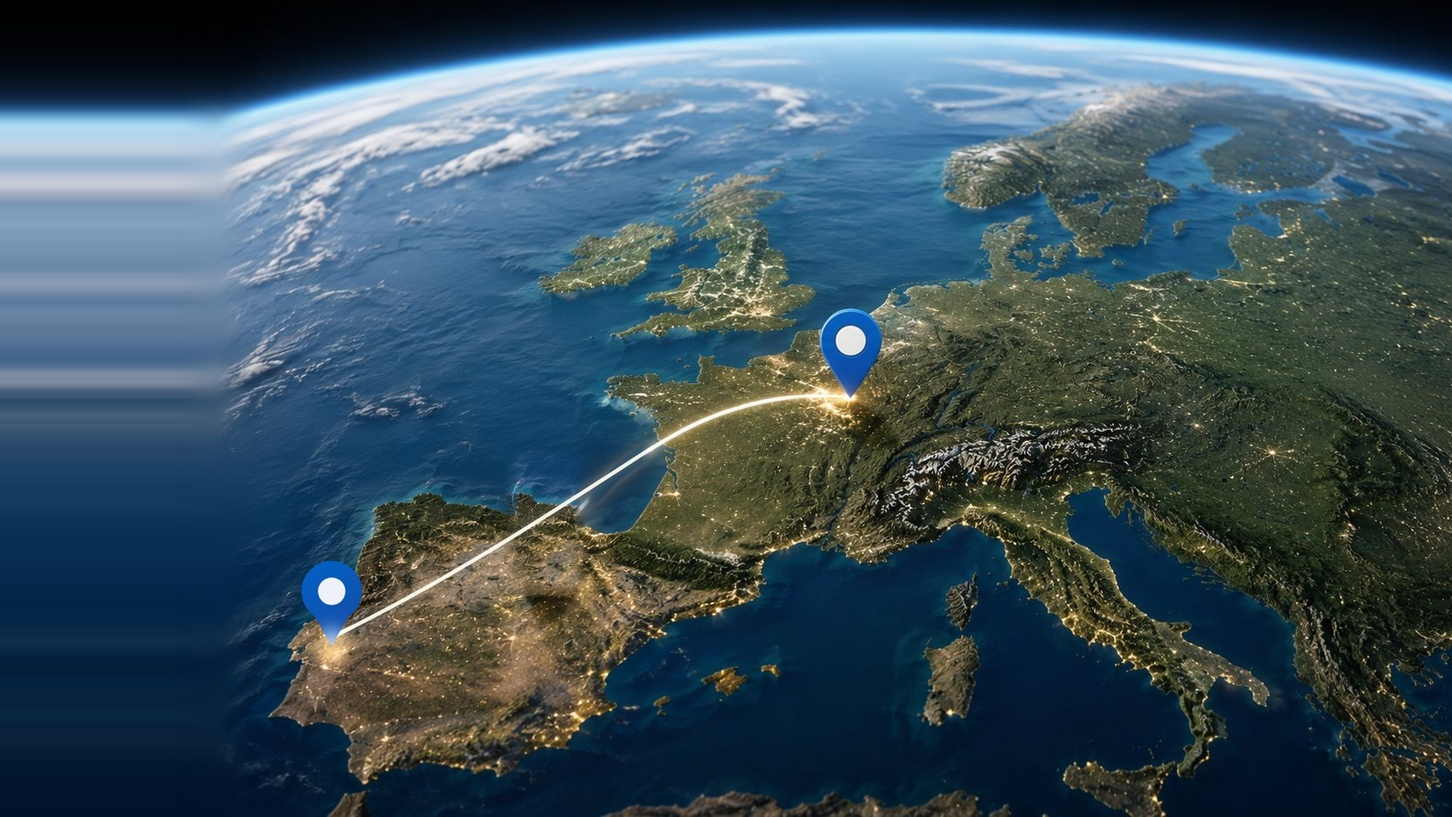
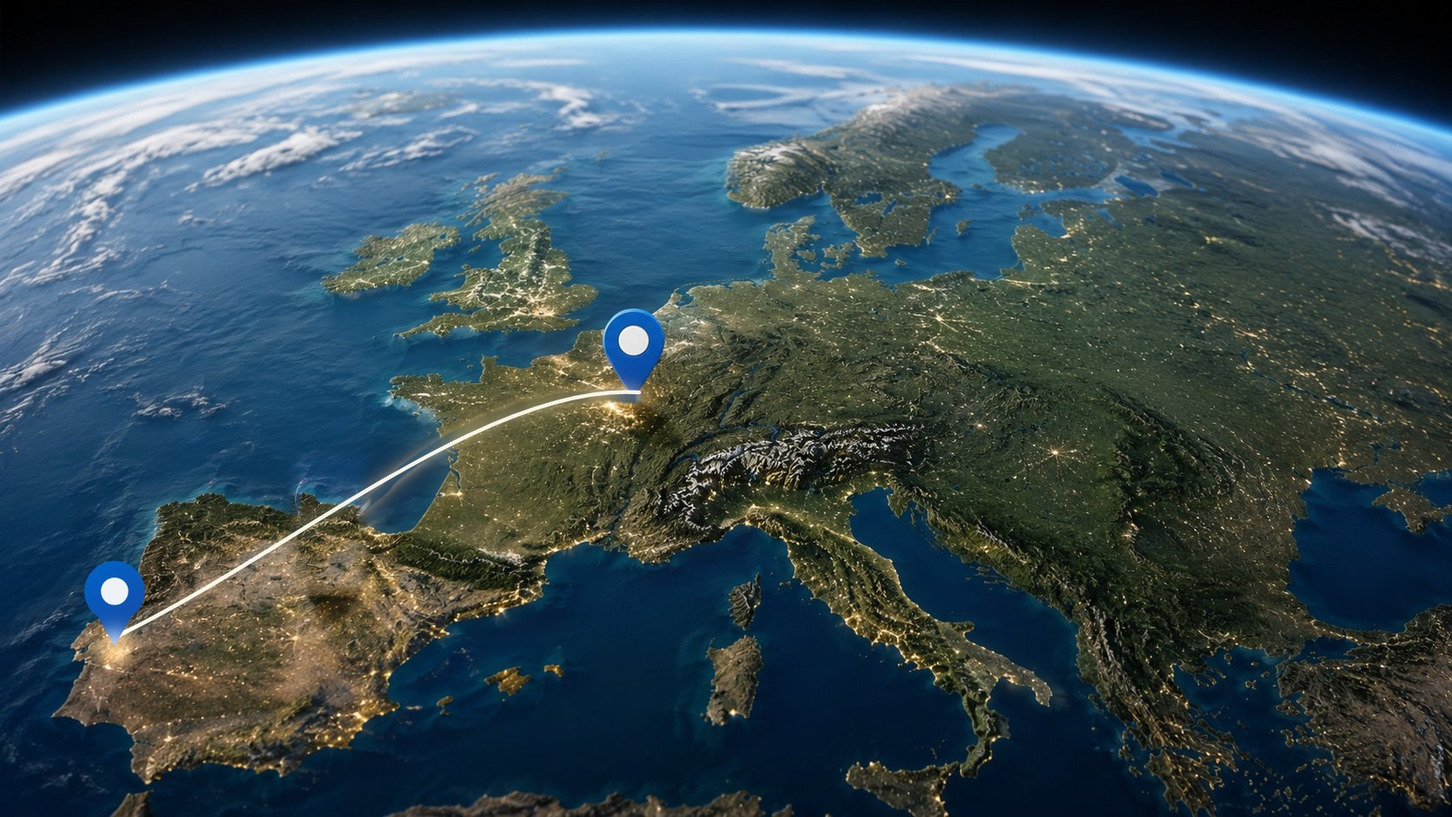
Áreas: arco redesenhado como curva única e elegante; remover preenchimento à esquerda
- O arco antigo foi apagado e substituído por uma curva única que sobe de
  Portugal e achata progressivamente até à Bélgica (a tentativa anterior
  colava-se ao traçado antigo, o que obrigava a uma curva em S)
- Removido o deslocamento do mapa com preenchimento à esquerda: dava um
  aspeto borrado no bordo. O mapa volta a ser a imagem natural
- Enquadramento vertical afinado; versão dos assets atualizada (cache)

Claude-Session: https://claude.ai/code/session_01KmCGpcUCuut8EtqZ6Sw2tr

diff --git a/en/servicos.html b/en/servicos.html
@@ -57,7 +57,7 @@
     </div>
   </header>
   <main id="conteudo">
-    <section class="hero hero--photo" style="background-image:url('../assets/img/servicos-bg.jpg?v=20260818')">
+    <section class="hero hero--photo" style="background-image:url('../assets/img/servicos-bg.jpg?v=20260818b')">
       <div class="container hero__inner">
         <span class="eyebrow">What we offer</span>
         <h1>Services</h1>
@@ -67,7 +67,7 @@
     <section class="section">
       <div class="container svc-rows">
         <article class="svc-row rv">
-          <div class="svc-row__media svc-row__media--photo" style="background-image:url('../assets/img/servicos/survey-e-projeto.jpg?v=20260818')">
+          <div class="svc-row__media svc-row__media--photo" style="background-image:url('../assets/img/servicos/survey-e-projeto.jpg?v=20260818b')">
             <span class="svc-row__num" aria-hidden="true">01</span>
             <span class="svc-row__icon" aria-hidden="true"><svg viewBox="0 0 48 48" fill="none" stroke="currentColor" stroke-width="2" stroke-linecap="round" stroke-linejoin="round"><rect x="12" y="7" width="24" height="34" rx="2"/><path d="M19 7v-1h10v1"/><path d="M18 19h12M18 26h12M18 33h8"/></svg></span>
           </div>
@@ -77,7 +77,7 @@
           </div>
         </article>
         <article class="svc-row svc-row--rev rv">
-          <div class="svc-row__media svc-row__media--photo" style="background-image:url('../assets/img/servicos/construcao-de-redes.jpg?v=20260818')">
+          <div class="svc-row__media svc-row__media--photo" style="background-image:url('../assets/img/servicos/construcao-de-redes.jpg?v=20260818b')">
             <span class="svc-row__num" aria-hidden="true">02</span>
             <span class="svc-row__icon" aria-hidden="true"><svg viewBox="0 0 48 48" fill="none" stroke="currentColor" stroke-width="2" stroke-linecap="round" stroke-linejoin="round"><circle cx="24" cy="10" r="4"/><circle cx="10" cy="38" r="4"/><circle cx="38" cy="38" r="4"/><path d="M24 14v10m0 0-11 11m11-11 11 11"/></svg></span>
           </div>
@@ -87,7 +87,7 @@
           </div>
         </article>
         <article class="svc-row rv">
-          <div class="svc-row__media svc-row__media--photo" style="background-image:url('../assets/img/servicos/fibra-otica-e-cobre.jpg?v=20260818')">
+          <div class="svc-row__media svc-row__media--photo" style="background-image:url('../assets/img/servicos/fibra-otica-e-cobre.jpg?v=20260818b')">
             <span class="svc-row__num" aria-hidden="true">03</span>
             <span class="svc-row__icon" aria-hidden="true"><svg viewBox="0 0 48 48" fill="none" stroke="currentColor" stroke-width="2" stroke-linecap="round" stroke-linejoin="round"><path d="M8 40c0-12 8-20 20-20"/><path d="M40 8c0 12-8 20-20 20"/><circle cx="8" cy="40" r="2.5"/><circle cx="40" cy="8" r="2.5"/><circle cx="24" cy="24" r="2.5"/></svg></span>
           </div>
@@ -97,7 +97,7 @@
           </div>
         </article>
         <article class="svc-row svc-row--rev rv">
-          <div class="svc-row__media svc-row__media--photo svc-row__media--contain" style="background-image:url('../assets/img/servicos/instalacao-e-ativacao.jpg?v=20260818')">
+          <div class="svc-row__media svc-row__media--photo svc-row__media--contain" style="background-image:url('../assets/img/servicos/instalacao-e-ativacao.jpg?v=20260818b')">
             <span class="svc-row__num" aria-hidden="true">04</span>
             <span class="svc-row__icon" aria-hidden="true"><svg viewBox="0 0 48 48" fill="none" stroke="currentColor" stroke-width="2" stroke-linecap="round" stroke-linejoin="round"><path d="M24 6v15"/><path d="M15 15a13 13 0 1 0 18 0"/></svg></span>
           </div>
@@ -107,7 +107,7 @@
           </div>
         </article>
         <article class="svc-row rv">
-          <div class="svc-row__media svc-row__media--photo" style="background-image:url('../assets/img/servicos/supervisao-e-monitorizacao.jpg?v=20260818')">
+          <div class="svc-row__media svc-row__media--photo" style="background-image:url('../assets/img/servicos/supervisao-e-monitorizacao.jpg?v=20260818b')">
             <span class="svc-row__num" aria-hidden="true">05</span>
             <span class="svc-row__icon" aria-hidden="true"><svg viewBox="0 0 48 48" fill="none" stroke="currentColor" stroke-width="2" stroke-linecap="round" stroke-linejoin="round"><rect x="6" y="9" width="36" height="25" rx="2"/><path d="M12 24l6-6 5 7 5-8 4 5"/><path d="M18 41h12M24 34v7"/></svg></span>
           </div>
@@ -117,7 +117,7 @@
           </div>
         </article>
         <article class="svc-row svc-row--rev rv">
-          <div class="svc-row__media svc-row__media--photo" style="background-image:url('../assets/img/servicos/manutencao-e-reparacao.jpg?v=20260818')">
+          <div class="svc-row__media svc-row__media--photo" style="background-image:url('../assets/img/servicos/manutencao-e-reparacao.jpg?v=20260818b')">
             <span class="svc-row__num" aria-hidden="true">06</span>
             <span class="svc-row__icon" aria-hidden="true"><svg viewBox="0 0 48 48" fill="none" stroke="currentColor" stroke-width="2" stroke-linecap="round" stroke-linejoin="round"><path d="M31 9a8 8 0 0 0-10 10L9 31a3 3 0 0 0 0 4l4 4a3 3 0 0 0 4 0l12-12a8 8 0 0 0 10-10l-6 6-4-4 6-6z"/></svg></span>
           </div>
@@ -127,7 +127,7 @@
           </div>
         </article>
         <article class="svc-row rv">
-          <div class="svc-row__media svc-row__media--photo" style="background-image:url('../assets/img/servicos/qualidade-e-auditoria.jpg?v=20260818')">
+          <div class="svc-row__media svc-row__media--photo" style="background-image:url('../assets/img/servicos/qualidade-e-auditoria.jpg?v=20260818b')">
             <span class="svc-row__num" aria-hidden="true">07</span>
             <span class="svc-row__icon" aria-hidden="true"><svg viewBox="0 0 48 48" fill="none" stroke="currentColor" stroke-width="2" stroke-linecap="round" stroke-linejoin="round"><path d="M24 5l16 6v10c0 10-7 17-16 21-9-4-16-11-16-21V11z"/><path d="M17 24l5 5 9-11"/></svg></span>
           </div>
@@ -137,7 +137,7 @@
           </div>
         </article>
         <article class="svc-row svc-row--rev rv">
-          <div class="svc-row__media svc-row__media--photo" style="background-image:url('../assets/img/servicos/armazem-e-logistica.jpg?v=20260818')">
+          <div class="svc-row__media svc-row__media--photo" style="background-image:url('../assets/img/servicos/armazem-e-logistica.jpg?v=20260818b')">
             <span class="svc-row__num" aria-hidden="true">08</span>
             <span class="svc-row__icon" aria-hidden="true"><svg viewBox="0 0 48 48" fill="none" stroke="currentColor" stroke-width="2" stroke-linecap="round" stroke-linejoin="round"><path d="M6 21 24 9l18 12"/><path d="M9 21v19h30V21"/><rect x="18" y="28" width="12" height="12"/></svg></span>
           </div>

diff --git a/fr/servicos.html b/fr/servicos.html
@@ -57,7 +57,7 @@
     </div>
   </header>
   <main id="conteudo">
-    <section class="hero hero--photo" style="background-image:url('../assets/img/servicos-bg.jpg?v=20260818')">
+    <section class="hero hero--photo" style="background-image:url('../assets/img/servicos-bg.jpg?v=20260818b')">
       <div class="container hero__inner">
         <span class="eyebrow">Notre offre</span>
         <h1>Services</h1>
@@ -67,7 +67,7 @@
     <section class="section">
       <div class="container svc-rows">
         <article class="svc-row rv">
-          <div class="svc-row__media svc-row__media--photo" style="background-image:url('../assets/img/servicos/survey-e-projeto.jpg?v=20260818')">
+          <div class="svc-row__media svc-row__media--photo" style="background-image:url('../assets/img/servicos/survey-e-projeto.jpg?v=20260818b')">
             <span class="svc-row__num" aria-hidden="true">01</span>
             <span class="svc-row__icon" aria-hidden="true"><svg viewBox="0 0 48 48" fill="none" stroke="currentColor" stroke-width="2" stroke-linecap="round" stroke-linejoin="round"><rect x="12" y="7" width="24" height="34" rx="2"/><path d="M19 7v-1h10v1"/><path d="M18 19h12M18 26h12M18 33h8"/></svg></span>
           </div>
@@ -77,7 +77,7 @@
           </div>
         </article>
         <article class="svc-row svc-row--rev rv">
-          <div class="svc-row__media svc-row__media--photo" style="background-image:url('../assets/img/servicos/construcao-de-redes.jpg?v=20260818')">
+          <div class="svc-row__media svc-row__media--photo" style="background-image:url('../assets/img/servicos/construcao-de-redes.jpg?v=20260818b')">
             <span class="svc-row__num" aria-hidden="true">02</span>
             <span class="svc-row__icon" aria-hidden="true"><svg viewBox="0 0 48 48" fill="none" stroke="currentColor" stroke-width="2" stroke-linecap="round" stroke-linejoin="round"><circle cx="24" cy="10" r="4"/><circle cx="10" cy="38" r="4"/><circle cx="38" cy="38" r="4"/><path d="M24 14v10m0 0-11 11m11-11 11 11"/></svg></span>
           </div>
@@ -87,7 +87,7 @@
           </div>
         </article>
         <article class="svc-row rv">
-          <div class="svc-row__media svc-row__media--photo" style="background-image:url('../assets/img/servicos/fibra-otica-e-cobre.jpg?v=20260818')">
+          <div class="svc-row__media svc-row__media--photo" style="background-image:url('../assets/img/servicos/fibra-otica-e-cobre.jpg?v=20260818b')">
             <span class="svc-row__num" aria-hidden="true">03</span>
             <span class="svc-row__icon" aria-hidden="true"><svg viewBox="0 0 48 48" fill="none" stroke="currentColor" stroke-width="2" stroke-linecap="round" stroke-linejoin="round"><path d="M8 40c0-12 8-20 20-20"/><path d="M40 8c0 12-8 20-20 20"/><circle cx="8" cy="40" r="2.5"/><circle cx="40" cy="8" r="2.5"/><circle cx="24" cy="24" r="2.5"/></svg></span>
           </div>
@@ -97,7 +97,7 @@
           </div>
         </article>
         <article class="svc-row svc-row--rev rv">
-          <div class="svc-row__media svc-row__media--photo svc-row__media--contain" style="background-image:url('../assets/img/servicos/instalacao-e-ativacao.jpg?v=20260818')">
+          <div class="svc-row__media svc-row__media--photo svc-row__media--contain" style="background-image:url('../assets/img/servicos/instalacao-e-ativacao.jpg?v=20260818b')">
             <span class="svc-row__num" aria-hidden="true">04</span>
             <span class="svc-row__icon" aria-hidden="true"><svg viewBox="0 0 48 48" fill="none" stroke="currentColor" stroke-width="2" stroke-linecap="round" stroke-linejoin="round"><path d="M24 6v15"/><path d="M15 15a13 13 0 1 0 18 0"/></svg></span>
           </div>
@@ -107,7 +107,7 @@
           </div>
         </article>
         <article class="svc-row rv">
-          <div class="svc-row__media svc-row__media--photo" style="background-image:url('../assets/img/servicos/supervisao-e-monitorizacao.jpg?v=20260818')">
+          <div class="svc-row__media svc-row__media--photo" style="background-image:url('../assets/img/servicos/supervisao-e-monitorizacao.jpg?v=20260818b')">
             <span class="svc-row__num" aria-hidden="true">05</span>
             <span class="svc-row__icon" aria-hidden="true"><svg viewBox="0 0 48 48" fill="none" stroke="currentColor" stroke-width="2" stroke-linecap="round" stroke-linejoin="round"><rect x="6" y="9" width="36" height="25" rx="2"/><path d="M12 24l6-6 5 7 5-8 4 5"/><path d="M18 41h12M24 34v7"/></svg></span>
           </div>
@@ -117,7 +117,7 @@
           </div>
         </article>
         <article class="svc-row svc-row--rev rv">
-          <div class="svc-row__media svc-row__media--photo" style="background-image:url('../assets/img/servicos/manutencao-e-reparacao.jpg?v=20260818')">
+          <div class="svc-row__media svc-row__media--photo" style="background-image:url('../assets/img/servicos/manutencao-e-reparacao.jpg?v=20260818b')">
             <span class="svc-row__num" aria-hidden="true">06</span>
             <span class="svc-row__icon" aria-hidden="true"><svg viewBox="0 0 48 48" fill="none" stroke="currentColor" stroke-width="2" stroke-linecap="round" stroke-linejoin="round"><path d="M31 9a8 8 0 0 0-10 10L9 31a3 3 0 0 0 0 4l4 4a3 3 0 0 0 4 0l12-12a8 8 0 0 0 10-10l-6 6-4-4 6-6z"/></svg></span>
           </div>
@@ -127,7 +127,7 @@
           </div>
         </article>
         <article class="svc-row rv">
-          <div class="svc-row__media svc-row__media--photo" style="background-image:url('../assets/img/servicos/qualidade-e-auditoria.jpg?v=20260818')">
+          <div class="svc-row__media svc-row__media--photo" style="background-image:url('../assets/img/servicos/qualidade-e-auditoria.jpg?v=20260818b')">
             <span class="svc-row__num" aria-hidden="true">07</span>
             <span class="svc-row__icon" aria-hidden="true"><svg viewBox="0 0 48 48" fill="none" stroke="currentColor" stroke-width="2" stroke-linecap="round" stroke-linejoin="round"><path d="M24 5l16 6v10c0 10-7 17-16 21-9-4-16-11-16-21V11z"/><path d="M17 24l5 5 9-11"/></svg></span>
           </div>
@@ -137,7 +137,7 @@
           </div>
         </article>
         <article class="svc-row svc-row--rev rv">
-          <div class="svc-row__media svc-row__media--photo" style="background-image:url('../assets/img/servicos/armazem-e-logistica.jpg?v=20260818')">
+          <div class="svc-row__media svc-row__media--photo" style="background-image:url('../assets/img/servicos/armazem-e-logistica.jpg?v=20260818b')">
             <span class="svc-row__num" aria-hidden="true">08</span>
             <span class="svc-row__icon" aria-hidden="true"><svg viewBox="0 0 48 48" fill="none" stroke="currentColor" stroke-width="2" stroke-linecap="round" stroke-linejoin="round"><path d="M6 21 24 9l18 12"/><path d="M9 21v19h30V21"/><rect x="18" y="28" width="12" height="12"/></svg></span>
           </div>

diff --git a/servicos.html b/servicos.html
@@ -57,7 +57,7 @@
     </div>
   </header>
   <main id="conteudo">
-    <section class="hero hero--photo" style="background-image:url('assets/img/servicos-bg.jpg?v=20260818')">
+    <section class="hero hero--photo" style="background-image:url('assets/img/servicos-bg.jpg?v=20260818b')">
       <div class="container hero__inner">
         <span class="eyebrow">O que oferecemos</span>
         <h1>Serviços</h1>
@@ -67,7 +67,7 @@
     <section class="section">
       <div class="container svc-rows">
         <article class="svc-row rv">
-          <div class="svc-row__media svc-row__media--photo" style="background-image:url('assets/img/servicos/survey-e-projeto.jpg?v=20260818')">
+          <div class="svc-row__media svc-row__media--photo" style="background-image:url('assets/img/servicos/survey-e-projeto.jpg?v=20260818b')">
             <span class="svc-row__num" aria-hidden="true">01</span>
             <span class="svc-row__icon" aria-hidden="true"><svg viewBox="0 0 48 48" fill="none" stroke="currentColor" stroke-width="2" stroke-linecap="round" stroke-linejoin="round"><rect x="12" y="7" width="24" height="34" rx="2"/><path d="M19 7v-1h10v1"/><path d="M18 19h12M18 26h12M18 33h8"/></svg></span>
           </div>
@@ -77,7 +77,7 @@
           </div>
         </article>
         <article class="svc-row svc-row--rev rv">
-          <div class="svc-row__media svc-row__media--photo" style="background-image:url('assets/img/servicos/construcao-de-redes.jpg?v=20260818')">
+          <div class="svc-row__media svc-row__media--photo" style="background-image:url('assets/img/servicos/construcao-de-redes.jpg?v=20260818b')">
             <span class="svc-row__num" aria-hidden="true">02</span>
             <span class="svc-row__icon" aria-hidden="true"><svg viewBox="0 0 48 48" fill="none" stroke="currentColor" stroke-width="2" stroke-linecap="round" stroke-linejoin="round"><circle cx="24" cy="10" r="4"/><circle cx="10" cy="38" r="4"/><circle cx="38" cy="38" r="4"/><path d="M24 14v10m0 0-11 11m11-11 11 11"/></svg></span>
           </div>
@@ -87,7 +87,7 @@
           </div>
         </article>
         <article class="svc-row rv">
-          <div class="svc-row__media svc-row__media--photo" style="background-image:url('assets/img/servicos/fibra-otica-e-cobre.jpg?v=20260818')">
+          <div class="svc-row__media svc-row__media--photo" style="background-image:url('assets/img/servicos/fibra-otica-e-cobre.jpg?v=20260818b')">
             <span class="svc-row__num" aria-hidden="true">03</span>
             <span class="svc-row__icon" aria-hidden="true"><svg viewBox="0 0 48 48" fill="none" stroke="currentColor" stroke-width="2" stroke-linecap="round" stroke-linejoin="round"><path d="M8 40c0-12 8-20 20-20"/><path d="M40 8c0 12-8 20-20 20"/><circle cx="8" cy="40" r="2.5"/><circle cx="40" cy="8" r="2.5"/><circle cx="24" cy="24" r="2.5"/></svg></span>
           </div>
@@ -97,7 +97,7 @@
           </div>
         </article>
         <article class="svc-row svc-row--rev rv">
-          <div class="svc-row__media svc-row__media--photo svc-row__media--contain" style="background-image:url('assets/img/servicos/instalacao-e-ativacao.jpg?v=20260818')">
+          <div class="svc-row__media svc-row__media--photo svc-row__media--contain" style="background-image:url('assets/img/servicos/instalacao-e-ativacao.jpg?v=20260818b')">
             <span class="svc-row__num" aria-hidden="true">04</span>
             <span class="svc-row__icon" aria-hidden="true"><svg viewBox="0 0 48 48" fill="none" stroke="currentColor" stroke-width="2" stroke-linecap="round" stroke-linejoin="round"><path d="M24 6v15"/><path d="M15 15a13 13 0 1 0 18 0"/></svg></span>
           </div>
@@ -107,7 +107,7 @@
           </div>
         </article>
         <article class="svc-row rv">
-          <div class="svc-row__media svc-row__media--photo" style="background-image:url('assets/img/servicos/supervisao-e-monitorizacao.jpg?v=20260818')">
+          <div class="svc-row__media svc-row__media--photo" style="background-image:url('assets/img/servicos/supervisao-e-monitorizacao.jpg?v=20260818b')">
             <span class="svc-row__num" aria-hidden="true">05</span>
             <span class="svc-row__icon" aria-hidden="true"><svg viewBox="0 0 48 48" fill="none" stroke="currentColor" stroke-width="2" stroke-linecap="round" stroke-linejoin="round"><rect x="6" y="9" width="36" height="25" rx="2"/><path d="M12 24l6-6 5 7 5-8 4 5"/><path d="M18 41h12M24 34v7"/></svg></span>
           </div>
@@ -117,7 +117,7 @@
           </div>
         </article>
         <article class="svc-row svc-row--rev rv">
-          <div class="svc-row__media svc-row__media--photo" style="background-image:url('assets/img/servicos/manutencao-e-reparacao.jpg?v=20260818')">
+          <div class="svc-row__media svc-row__media--photo" style="background-image:url('assets/img/servicos/manutencao-e-reparacao.jpg?v=20260818b')">
             <span class="svc-row__num" aria-hidden="true">06</span>
             <span class="svc-row__icon" aria-hidden="true"><svg viewBox="0 0 48 48" fill="none" stroke="currentColor" stroke-width="2" stroke-linecap="round" stroke-linejoin="round"><path d="M31 9a8 8 0 0 0-10 10L9 31a3 3 0 0 0 0 4l4 4a3 3 0 0 0 4 0l12-12a8 8 0 0 0 10-10l-6 6-4-4 6-6z"/></svg></span>
           </div>
@@ -127,7 +127,7 @@
           </div>
         </article>
         <article class="svc-row rv">
-          <div class="svc-row__media svc-row__media--photo" style="background-image:url('assets/img/servicos/qualidade-e-auditoria.jpg?v=20260818')">
+          <div class="svc-row__media svc-row__media--photo" style="background-image:url('assets/img/servicos/qualidade-e-auditoria.jpg?v=20260818b')">
             <span class="svc-row__num" aria-hidden="true">07</span>
             <span class="svc-row__icon" aria-hidden="true"><svg viewBox="0 0 48 48" fill="none" stroke="currentColor" stroke-width="2" stroke-linecap="round" stroke-linejoin="round"><path d="M24 5l16 6v10c0 10-7 17-16 21-9-4-16-11-16-21V11z"/><path d="M17 24l5 5 9-11"/></svg></span>
           </div>
@@ -137,7 +137,7 @@
           </div>
         </article>
         <article class="svc-row svc-row--rev rv">
-          <div class="svc-row__media svc-row__media--photo" style="background-image:url('assets/img/servicos/armazem-e-logistica.jpg?v=20260818')">
+          <div class="svc-row__media svc-row__media--photo" style="background-image:url('assets/img/servicos/armazem-e-logistica.jpg?v=20260818b')">
             <span class="svc-row__num" aria-hidden="true">08</span>
             <span class="svc-row__icon" aria-hidden="true"><svg viewBox="0 0 48 48" fill="none" stroke="currentColor" stroke-width="2" stroke-linecap="round" stroke-linejoin="round"><path d="M6 21 24 9l18 12"/><path d="M9 21v19h30V21"/><rect x="18" y="28" width="12" height="12"/></svg></span>
           </div>

diff --git a/index.html b/index.html
@@ -85,21 +85,21 @@
         <h2 class="rv">Infraestruturas que suportam as redes de acesso</h2>
         <div class="svc-grid stagger" style="margin-top:2.5rem">
           <article class="svc-card rv">
-            <div class="svc-card__top svc-card__top--photo" style="background-image:url('assets/img/servicos/construcao-de-redes.jpg?v=20260818')"><span class="svc-card__icon" aria-hidden="true"><svg viewBox="0 0 48 48" fill="none" stroke="currentColor" stroke-width="2" stroke-linecap="round" stroke-linejoin="round"><circle cx="24" cy="10" r="4"/><circle cx="10" cy="38" r="4"/><circle cx="38" cy="38" r="4"/><path d="M24 14v10m0 0-11 11m11-11 11 11"/></svg></span></div>
+            <div class="svc-card__top svc-card__top--photo" style="background-image:url('assets/img/servicos/construcao-de-redes.jpg?v=20260818b')"><span class="svc-card__icon" aria-hidden="true"><svg viewBox="0 0 48 48" fill="none" stroke="currentColor" stroke-width="2" stroke-linecap="round" stroke-linejoin="round"><circle cx="24" cy="10" r="4"/><circle cx="10" cy="38" r="4"/><circle cx="38" cy="38" r="4"/><path d="M24 14v10m0 0-11 11m11-11 11 11"/></svg></span></div>
             <div class="svc-card__body">
               <h3>Construção de redes</h3>
               <p>Executamos infraestruturas de telecomunicações com elevados padrões de qualidade, segurança e eficiência, assegurando uma implementação rigorosa e preparada para responder às exigências das redes do futuro.</p>
             </div>
           </article>
           <article class="svc-card rv">
-            <div class="svc-card__top svc-card__top--photo" style="background-image:url('assets/img/servicos/fibra-otica-e-cobre.jpg?v=20260818')"><span class="svc-card__icon" aria-hidden="true"><svg viewBox="0 0 48 48" fill="none" stroke="currentColor" stroke-width="2" stroke-linecap="round" stroke-linejoin="round"><path d="M8 40c0-12 8-20 20-20"/><path d="M40 8c0 12-8 20-20 20"/><circle cx="8" cy="40" r="2.5"/><circle cx="40" cy="8" r="2.5"/><circle cx="24" cy="24" r="2.5"/></svg></span></div>
+            <div class="svc-card__top svc-card__top--photo" style="background-image:url('assets/img/servicos/fibra-otica-e-cobre.jpg?v=20260818b')"><span class="svc-card__icon" aria-hidden="true"><svg viewBox="0 0 48 48" fill="none" stroke="currentColor" stroke-width="2" stroke-linecap="round" stroke-linejoin="round"><path d="M8 40c0-12 8-20 20-20"/><path d="M40 8c0 12-8 20-20 20"/><circle cx="8" cy="40" r="2.5"/><circle cx="40" cy="8" r="2.5"/><circle cx="24" cy="24" r="2.5"/></svg></span></div>
             <div class="svc-card__body">
               <h3>Fibra ótica e cobre</h3>
               <p>Somos especialistas em soluções de fibra ótica e cobre, assegurando todas as fases da rede, desde a construção e instalação até à ligação, certificação, manutenção e resolução de avarias.</p>
             </div>
           </article>
           <article class="svc-card rv">
-            <div class="svc-card__top svc-card__top--photo" style="background-image:url('assets/img/servicos/manutencao-e-reparacao.jpg?v=20260818')"><span class="svc-card__icon" aria-hidden="true"><svg viewBox="0 0 48 48" fill="none" stroke="currentColor" stroke-width="2" stroke-linecap="round" stroke-linejoin="round"><path d="M31 9a8 8 0 0 0-10 10L9 31a3 3 0 0 0 0 4l4 4a3 3 0 0 0 4 0l12-12a8 8 0 0 0 10-10l-6 6-4-4 6-6z"/></svg></span></div>
+            <div class="svc-card__top svc-card__top--photo" style="background-image:url('assets/img/servicos/manutencao-e-reparacao.jpg?v=20260818b')"><span class="svc-card__icon" aria-hidden="true"><svg viewBox="0 0 48 48" fill="none" stroke="currentColor" stroke-width="2" stroke-linecap="round" stroke-linejoin="round"><path d="M31 9a8 8 0 0 0-10 10L9 31a3 3 0 0 0 0 4l4 4a3 3 0 0 0 4 0l12-12a8 8 0 0 0 10-10l-6 6-4-4 6-6z"/></svg></span></div>
             <div class="svc-card__body">
               <h3>Manutenção e reparação</h3>
               <p>A continuidade das comunicações depende de uma resposta rápida e eficaz. Asseguramos a manutenção preventiva e corretiva das redes, com diagnóstico preciso e intervenção especializada.</p>

diff --git a/fr/index.html b/fr/index.html
@@ -85,21 +85,21 @@
         <h2 class="rv">Des infrastructures qui soutiennent les réseaux d'accès</h2>
         <div class="svc-grid stagger" style="margin-top:2.5rem">
           <article class="svc-card rv">
-            <div class="svc-card__top svc-card__top--photo" style="background-image:url('../assets/img/servicos/construcao-de-redes.jpg?v=20260818')"><span class="svc-card__icon" aria-hidden="true"><svg viewBox="0 0 48 48" fill="none" stroke="currentColor" stroke-width="2" stroke-linecap="round" stroke-linejoin="round"><circle cx="24" cy="10" r="4"/><circle cx="10" cy="38" r="4"/><circle cx="38" cy="38" r="4"/><path d="M24 14v10m0 0-11 11m11-11 11 11"/></svg></span></div>
+            <div class="svc-card__top svc-card__top--photo" style="background-image:url('../assets/img/servicos/construcao-de-redes.jpg?v=20260818b')"><span class="svc-card__icon" aria-hidden="true"><svg viewBox="0 0 48 48" fill="none" stroke="currentColor" stroke-width="2" stroke-linecap="round" stroke-linejoin="round"><circle cx="24" cy="10" r="4"/><circle cx="10" cy="38" r="4"/><circle cx="38" cy="38" r="4"/><path d="M24 14v10m0 0-11 11m11-11 11 11"/></svg></span></div>
             <div class="svc-card__body">
               <h3>Construction de réseaux</h3>
               <p>Nous réalisons des infrastructures de télécommunications selon des standards élevés de qualité, de sécurité et d'efficacité, garantissant une mise en œuvre rigoureuse et prête à répondre aux exigences des réseaux de demain.</p>
             </div>
           </article>
           <article class="svc-card rv">
-            <div class="svc-card__top svc-card__top--photo" style="background-image:url('../assets/img/servicos/fibra-otica-e-cobre.jpg?v=20260818')"><span class="svc-card__icon" aria-hidden="true"><svg viewBox="0 0 48 48" fill="none" stroke="currentColor" stroke-width="2" stroke-linecap="round" stroke-linejoin="round"><path d="M8 40c0-12 8-20 20-20"/><path d="M40 8c0 12-8 20-20 20"/><circle cx="8" cy="40" r="2.5"/><circle cx="40" cy="8" r="2.5"/><circle cx="24" cy="24" r="2.5"/></svg></span></div>
+            <div class="svc-card__top svc-card__top--photo" style="background-image:url('../assets/img/servicos/fibra-otica-e-cobre.jpg?v=20260818b')"><span class="svc-card__icon" aria-hidden="true"><svg viewBox="0 0 48 48" fill="none" stroke="currentColor" stroke-width="2" stroke-linecap="round" stroke-linejoin="round"><path d="M8 40c0-12 8-20 20-20"/><path d="M40 8c0 12-8 20-20 20"/><circle cx="8" cy="40" r="2.5"/><circle cx="40" cy="8" r="2.5"/><circle cx="24" cy="24" r="2.5"/></svg></span></div>
             <div class="svc-card__body">
               <h3>Fibre optique & cuivre</h3>
               <p>Réalisation, maintenance et modernisation d'infrastructures en fibre optique (FTTH) et cuivre, du tronçon principal au point d'accès.</p>
             </div>
           </article>
           <article class="svc-card rv">
-            <div class="svc-card__top svc-card__top--photo" style="background-image:url('../assets/img/servicos/manutencao-e-reparacao.jpg?v=20260818')"><span class="svc-card__icon" aria-hidden="true"><svg viewBox="0 0 48 48" fill="none" stroke="currentColor" stroke-width="2" stroke-linecap="round" stroke-linejoin="round"><path d="M31 9a8 8 0 0 0-10 10L9 31a3 3 0 0 0 0 4l4 4a3 3 0 0 0 4 0l12-12a8 8 0 0 0 10-10l-6 6-4-4 6-6z"/></svg></span></div>
+            <div class="svc-card__top svc-card__top--photo" style="background-image:url('../assets/img/servicos/manutencao-e-reparacao.jpg?v=20260818b')"><span class="svc-card__icon" aria-hidden="true"><svg viewBox="0 0 48 48" fill="none" stroke="currentColor" stroke-width="2" stroke-linecap="round" stroke-linejoin="round"><path d="M31 9a8 8 0 0 0-10 10L9 31a3 3 0 0 0 0 4l4 4a3 3 0 0 0 4 0l12-12a8 8 0 0 0 10-10l-6 6-4-4 6-6z"/></svg></span></div>
             <div class="svc-card__body">
               <h3>Maintenance & réparation</h3>
               <p>Maintenance préventive et corrective, avec diagnostic, détection et résolution de pannes et réactivité pour réduire les temps d'indisponibilité.</p>

diff --git a/en/index.html b/en/index.html
@@ -85,21 +85,21 @@
         <h2 class="rv">Infrastructure that supports access networks</h2>
         <div class="svc-grid stagger" style="margin-top:2.5rem">
           <article class="svc-card rv">
-            <div class="svc-card__top svc-card__top--photo" style="background-image:url('../assets/img/servicos/construcao-de-redes.jpg?v=20260818')"><span class="svc-card__icon" aria-hidden="true"><svg viewBox="0 0 48 48" fill="none" stroke="currentColor" stroke-width="2" stroke-linecap="round" stroke-linejoin="round"><circle cx="24" cy="10" r="4"/><circle cx="10" cy="38" r="4"/><circle cx="38" cy="38" r="4"/><path d="M24 14v10m0 0-11 11m11-11 11 11"/></svg></span></div>
+            <div class="svc-card__top svc-card__top--photo" style="background-image:url('../assets/img/servicos/construcao-de-redes.jpg?v=20260818b')"><span class="svc-card__icon" aria-hidden="true"><svg viewBox="0 0 48 48" fill="none" stroke="currentColor" stroke-width="2" stroke-linecap="round" stroke-linejoin="round"><circle cx="24" cy="10" r="4"/><circle cx="10" cy="38" r="4"/><circle cx="38" cy="38" r="4"/><path d="M24 14v10m0 0-11 11m11-11 11 11"/></svg></span></div>
             <div class="svc-card__body">
               <h3>Network construction</h3>
               <p>Construction of telecommunications infrastructure to high standards of quality, safety and efficiency, ensuring rigorous implementation ready to meet the demands of future networks.</p>
             </div>
           </article>
           <article class="svc-card rv">
-            <div class="svc-card__top svc-card__top--photo" style="background-image:url('../assets/img/servicos/fibra-otica-e-cobre.jpg?v=20260818')"><span class="svc-card__icon" aria-hidden="true"><svg viewBox="0 0 48 48" fill="none" stroke="currentColor" stroke-width="2" stroke-linecap="round" stroke-linejoin="round"><path d="M8 40c0-12 8-20 20-20"/><path d="M40 8c0 12-8 20-20 20"/><circle cx="8" cy="40" r="2.5"/><circle cx="40" cy="8" r="2.5"/><circle cx="24" cy="24" r="2.5"/></svg></span></div>
+            <div class="svc-card__top svc-card__top--photo" style="background-image:url('../assets/img/servicos/fibra-otica-e-cobre.jpg?v=20260818b')"><span class="svc-card__icon" aria-hidden="true"><svg viewBox="0 0 48 48" fill="none" stroke="currentColor" stroke-width="2" stroke-linecap="round" stroke-linejoin="round"><path d="M8 40c0-12 8-20 20-20"/><path d="M40 8c0 12-8 20-20 20"/><circle cx="8" cy="40" r="2.5"/><circle cx="40" cy="8" r="2.5"/><circle cx="24" cy="24" r="2.5"/></svg></span></div>
             <div class="svc-card__body">
               <h3>Optical fibre & copper</h3>
               <p>Delivery, maintenance and modernisation of optical fibre (FTTH) and copper infrastructure, from the main span to the access point.</p>
             </div>
           </article>
           <article class="svc-card rv">
-            <div class="svc-card__top svc-card__top--photo" style="background-image:url('../assets/img/servicos/manutencao-e-reparacao.jpg?v=20260818')"><span class="svc-card__icon" aria-hidden="true"><svg viewBox="0 0 48 48" fill="none" stroke="currentColor" stroke-width="2" stroke-linecap="round" stroke-linejoin="round"><path d="M31 9a8 8 0 0 0-10 10L9 31a3 3 0 0 0 0 4l4 4a3 3 0 0 0 4 0l12-12a8 8 0 0 0 10-10l-6 6-4-4 6-6z"/></svg></span></div>
+            <div class="svc-card__top svc-card__top--photo" style="background-image:url('../assets/img/servicos/manutencao-e-reparacao.jpg?v=20260818b')"><span class="svc-card__icon" aria-hidden="true"><svg viewBox="0 0 48 48" fill="none" stroke="currentColor" stroke-width="2" stroke-linecap="round" stroke-linejoin="round"><path d="M31 9a8 8 0 0 0-10 10L9 31a3 3 0 0 0 0 4l4 4a3 3 0 0 0 4 0l12-12a8 8 0 0 0 10-10l-6 6-4-4 6-6z"/></svg></span></div>
             <div class="svc-card__body">
               <h3>Maintenance & repair</h3>
               <p>Preventive and corrective maintenance, with fault diagnosis, detection and repair and fast response to reduce downtime.</p>

diff --git a/fr/areas.html b/fr/areas.html
@@ -57,7 +57,7 @@
     </div>
   </header>
   <main id="conteudo">
-    <section class="hero hero--photo hero--photo--scrim" style="background-image:url('../assets/img/areas-bg.jpg?v=20260818');background-position:center 72%">
+    <section class="hero hero--photo hero--photo--scrim" style="background-image:url('../assets/img/areas-bg.jpg?v=20260818b');background-position:center 58%">
       <div class="container hero__inner">
         <span class="eyebrow">Où nous intervenons</span>
         <h1>Zones d'intervention</h1>

diff --git a/en/areas.html b/en/areas.html
@@ -57,7 +57,7 @@
     </div>
   </header>
   <main id="conteudo">
-    <section class="hero hero--photo hero--photo--scrim" style="background-image:url('../assets/img/areas-bg.jpg?v=20260818');background-position:center 72%">
+    <section class="hero hero--photo hero--photo--scrim" style="background-image:url('../assets/img/areas-bg.jpg?v=20260818b');background-position:center 58%">
       <div class="container hero__inner">
         <span class="eyebrow">Where we operate</span>
         <h1>Areas of Operation</h1>

diff --git a/areas.html b/areas.html
@@ -57,7 +57,7 @@
     </div>
   </header>
   <main id="conteudo">
-    <section class="hero hero--photo hero--photo--scrim" style="background-image:url('assets/img/areas-bg.jpg?v=20260818');background-position:center 72%">
+    <section class="hero hero--photo hero--photo--scrim" style="background-image:url('assets/img/areas-bg.jpg?v=20260818b');background-position:center 58%">
       <div class="container hero__inner">
         <span class="eyebrow">Onde atuamos</span>
         <h1>Áreas de Atuação</h1>

diff --git a/fr/recrutamento.html b/fr/recrutamento.html
@@ -57,7 +57,7 @@
     </div>
   </header>
   <main id="conteudo">
-    <section class="hero hero--photo hero--photo--dark" style="background-image:url('../assets/img/recrutamento-bg.jpg?v=20260818')">
+    <section class="hero hero--photo hero--photo--dark" style="background-image:url('../assets/img/recrutamento-bg.jpg?v=20260818b')">
       <div class="container hero__inner">
         <span class="eyebrow">Carrières</span>
         <h1>Recrutement</h1>

diff --git a/fr/blog/index.html b/fr/blog/index.html
@@ -57,7 +57,7 @@
     </div>
   </header>
   <main id="conteudo">
-    <section class="hero hero--photo hero--photo--scrim" style="background-image:url('../../assets/img/blog-bg.jpg?v=20260818')">
+    <section class="hero hero--photo hero--photo--scrim" style="background-image:url('../../assets/img/blog-bg.jpg?v=20260818b')">
       <div class="container hero__inner">
         <span class="eyebrow">Blog</span>
         <h1>Perspectives techniques</h1>

diff --git a/recrutamento.html b/recrutamento.html
@@ -57,7 +57,7 @@
     </div>
   </header>
   <main id="conteudo">
-    <section class="hero hero--photo hero--photo--dark" style="background-image:url('assets/img/recrutamento-bg.jpg?v=20260818')">
+    <section class="hero hero--photo hero--photo--dark" style="background-image:url('assets/img/recrutamento-bg.jpg?v=20260818b')">
       <div class="container hero__inner">
         <span class="eyebrow">Carreiras</span>
         <h1>Recrutamento</h1>
